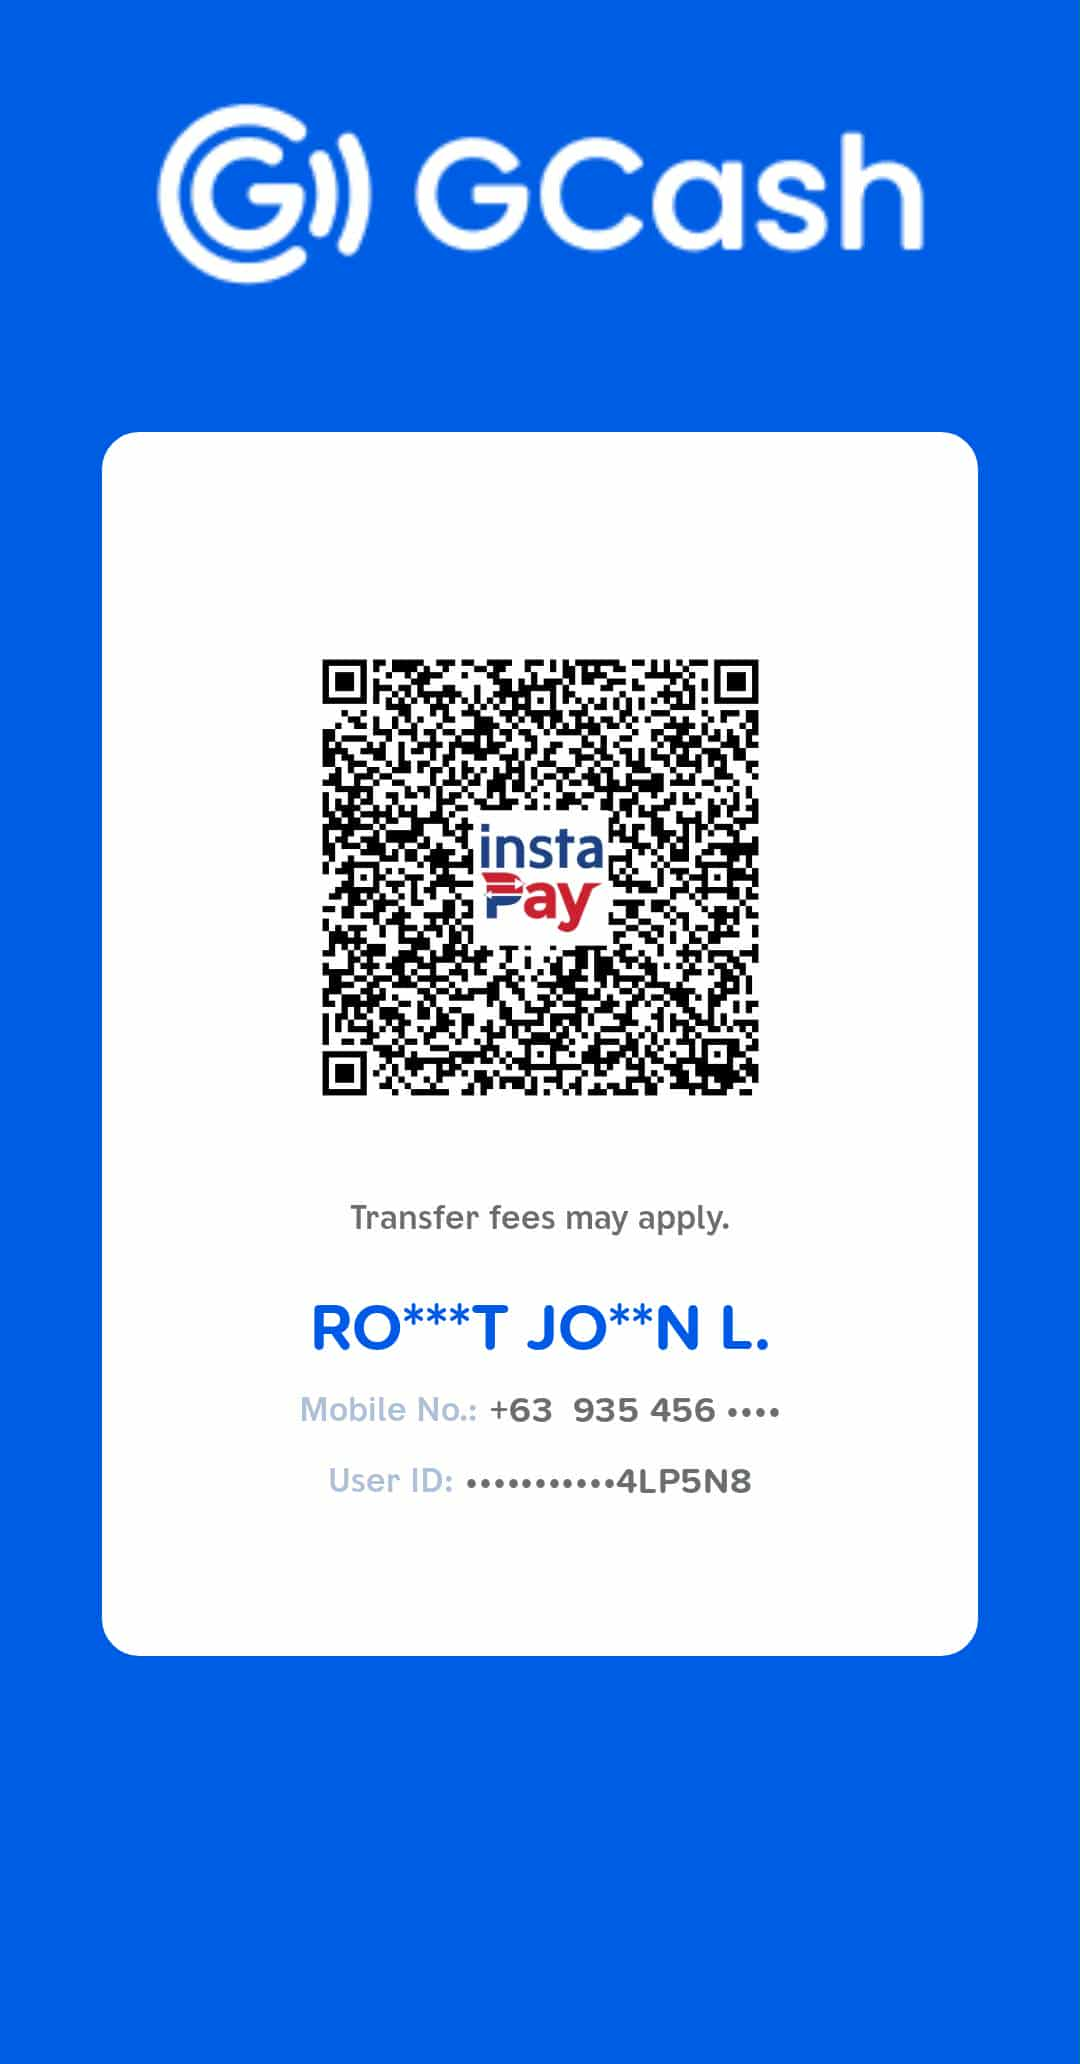
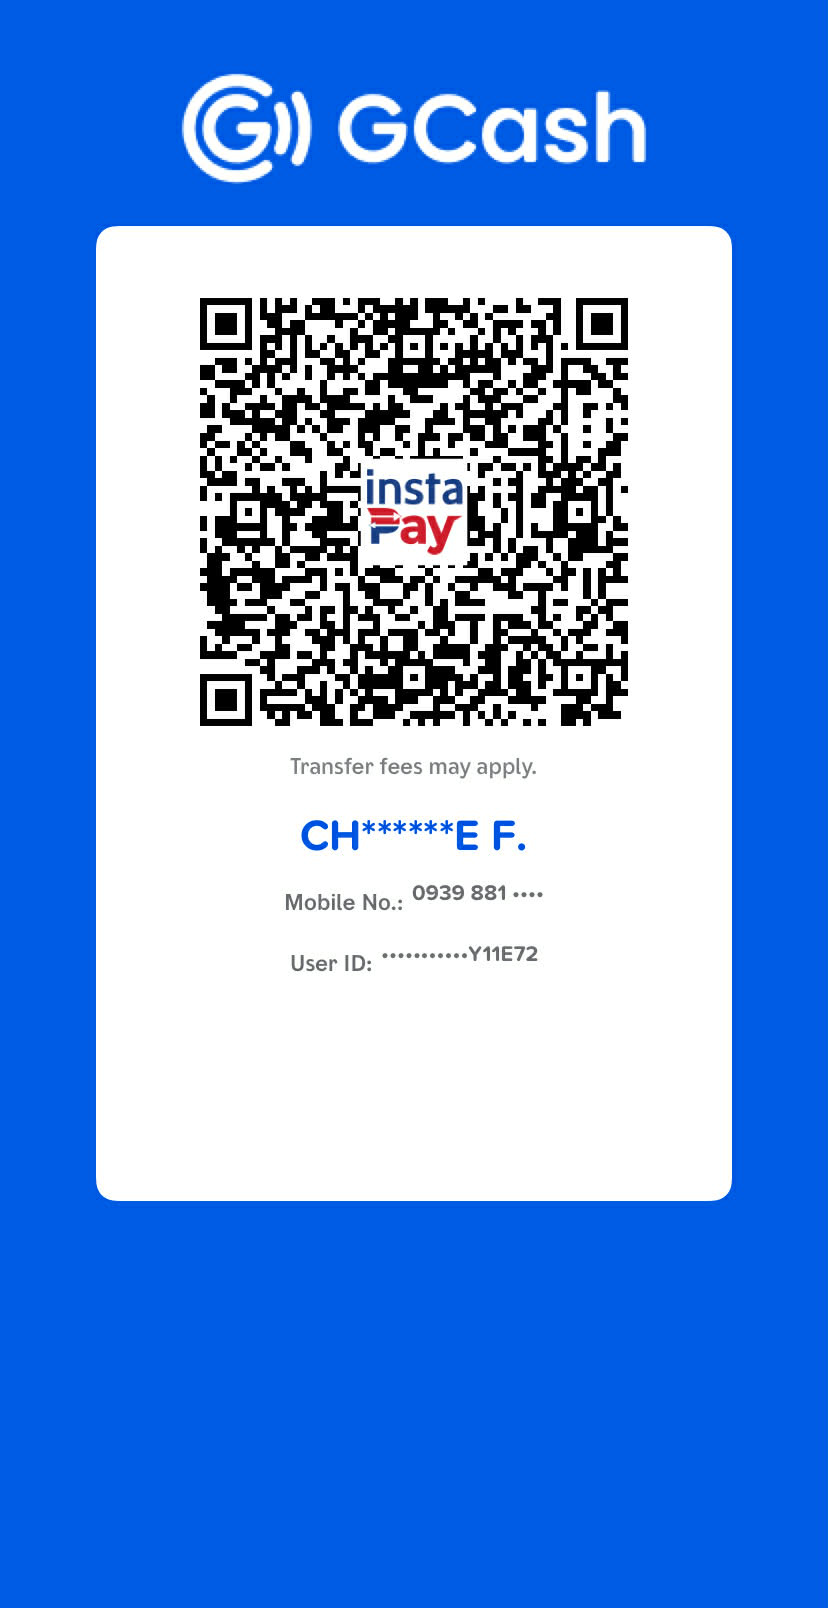
adjust

Changed region(s): [[0.0906, 0.0311, 0.9058, 0.8085], [0.9964, 0.0, 1.0, 1.0]]

diff --git a/src/components/Topbar/dialogs/DepositDialog.jsx b/src/components/Topbar/dialogs/DepositDialog.jsx
@@ -16,12 +16,13 @@ import {
   ListItem,
   ListItemText,
   Chip,
+  MenuItem,
 } from "@mui/material";
 import { Savings, CheckCircle, CloudUpload, HelpOutline } from "@mui/icons-material";
 import { getStorage, ref, uploadBytes, getDownloadURL } from "firebase/storage";
 import { collection, query, where, onSnapshot } from "firebase/firestore";
 import { getAuth } from "firebase/auth";
-import gcashImage from "../../../assets/bpii.jpg";
+import gcashImage from "../../../assets/gcash.jpg";
 import { app } from "../../../firebase";
 
 // ✅ Reusable confirmation dialog
@@ -91,11 +92,10 @@ const DepositDialog = ({ open, onClose, userData, db }) => {
   const [loading, setLoading] = useState(false);
   const [success, setSuccess] = useState(false);
   const [error, setError] = useState("");
-  const [showQR, setShowQR] = useState(false);
   const [showReceiptForm, setShowReceiptForm] = useState(false);
   const [depositLogs, setDepositLogs] = useState([]);
   const [confirmOpen, setConfirmOpen] = useState(false); // 🟢 Confirmation dialog state
-  const [qrDownloaded, setQrDownloaded] = useState(false); // Track if QR was downloaded
+  const [selectedPayment, setSelectedPayment] = useState("");
 
   // Charges removed
 
@@ -166,7 +166,6 @@ const DepositDialog = ({ open, onClose, userData, db }) => {
       setReference("");
       setReceipt(null);
       setPreview("");
-      setShowQR(false);
       setShowReceiptForm(false);
     } catch (err) {
       console.error(err);
@@ -181,7 +180,6 @@ const DepositDialog = ({ open, onClose, userData, db }) => {
     setSuccess(false);
     setReceipt(null);
     setPreview("");
-    setShowQR(false);
     setShowReceiptForm(false);
     onClose();
   };
@@ -199,48 +197,73 @@ const DepositDialog = ({ open, onClose, userData, db }) => {
 
   // Removed unused handleOpenGCash
 
-  const handleOpenPaymentApp = (appType) => {
-    const isMobile = /iPhone|iPad|iPod|Android/.test(navigator.userAgent);
+  // Removed unused handleOpenPaymentApp (no longer needed)
+
+  const handleOpenGCash = () => {
+    const userAgent = navigator.userAgent;
+    const isIOS = /iPhone|iPad|iPod/.test(userAgent);
+    const isAndroid = /Android/.test(userAgent);
     
-    const appLinks = {
-      gcash: {
-        ios: "gcash://",
-        android: "intent://com.globe.gcash.android#Intent;scheme=gcash;action=android.intent.action.VIEW;end",
-        web: "https://m.gcash.com"
-      },
-      bdo: {
-        ios: "bdo://",
-        android: "intent://com.bdo.mobile://Intent;scheme=bdo;action=android.intent.action.VIEW;end",
-        web: "https://www.bdo.com.ph/personal"
-      },
-      bpi: {
-        ios: "bpi://",
-        android: "intent://com.bpi.bpimobile://Intent;scheme=bpi;action=android.intent.action.VIEW;end",
-        web: "https://www.bpi.com.ph/personal"
-      },
-      maya: {
-        ios: "maya://",
-        android: "intent://com.maya.app://Intent;scheme=maya;action=android.intent.action.VIEW;end",
-        web: "https://www.mayaapp.com"
-      }
-    };
-
-    const links = appLinks[appType];
-    if (!links) return;
-
-    if (!isMobile) {
-      window.open(links.web, "_blank");
+    if (!isIOS && !isAndroid) {
+      // Desktop
+      window.open("https://m.gcash.com", "_blank");
       return;
     }
 
-    if (/iPhone|iPad|iPod/.test(navigator.userAgent)) {
-      window.location.href = links.ios;
-    } else if (/Android/.test(navigator.userAgent)) {
-      window.location.href = links.android;
+    // Use iframe method for more reliable deep linking
+    const openAppWithFallback = (scheme, fallbackUrl) => {
+      try {
+        const iframe = document.createElement('iframe');
+        iframe.style.display = 'none';
+        iframe.src = scheme;
+        document.body.appendChild(iframe);
+        
+        setTimeout(() => {
+          try {
+            document.body.removeChild(iframe);
+          } catch (e) {
+            // Iframe already removed
+          }
+          if (fallbackUrl) {
+            window.open(fallbackUrl, '_blank');
+          }
+        }, 2500);
+      } catch (e) {
+        console.error('Failed to open app:', e);
+        if (fallbackUrl) {
+          window.open(fallbackUrl, '_blank');
+        }
+      }
+    };
+
+    if (isIOS) {
+      // iOS: Try GCash app scheme with App Store fallback
+      openAppWithFallback(
+        'gcash://',
+        'https://apps.apple.com/ph/app/gcash/id562847418'
+      );
+    } else if (isAndroid) {
+      // Android: Try multiple intent formats
+      try {
+        // Try market:// scheme first (direct to Play Store if app installed)
+        const intentUrl = `intent://home#Intent;scheme=gcash;package=com.globe.gcash.android;action=android.intent.action.VIEW;LaunchFlags=0x10200000;end`;
+        window.location.href = intentUrl;
+        
+        // If that doesn't work, fallback to direct package open
+        setTimeout(() => {
+          try {
+            window.location.href = `intent://com.globe.gcash.android#Intent;scheme=package;action=android.intent.action.VIEW;end`;
+          } catch (e) {
+            // Final fallback to Play Store
+            window.open('https://play.google.com/store/apps/details?id=com.globe.gcash.android', '_blank');
+          }
+        }, 1000);
+      } catch (e) {
+        // Fallback to Play Store
+        window.open('https://play.google.com/store/apps/details?id=com.globe.gcash.android', '_blank');
+      }
     }
   };
-
-  // handleDownloadQR removed (no longer used)
 
   return (
     <>
@@ -317,169 +340,73 @@ const DepositDialog = ({ open, onClose, userData, db }) => {
                 </Alert>
               )}
 
-              {!showQR && (
+              {!showReceiptForm && (
                 <>
-                  <Button
-                    variant="contained"
+                  <TextField
+                    select
                     fullWidth
-                    sx={{
-                      mb: 2,
-                      bgcolor: "#81C784",
-                      "&:hover": { bgcolor: "#66BB6A" },
-                    }}
-                    onClick={() => {
-                      // Download the QR image directly
-                      const link = document.createElement("a");
-                      link.href = gcashImage;
-                      link.download = `GCash_QR_${Date.now()}.jpg`;
-                      document.body.appendChild(link);
-                      link.click();
-                      document.body.removeChild(link);
-                      setQrDownloaded(true);
-                    }}
+                    label="Select Payment Method"
+                    value={selectedPayment}
+                    onChange={e => setSelectedPayment(e.target.value)}
+                    sx={{ mb: 2, background: 'rgba(255,255,255,0.03)' }}
                   >
-                    Download QR Code
-                  </Button>
-                  <Button
-                    variant="outlined"
-                    fullWidth
-                    disabled={!qrDownloaded}
-                    sx={{
-                      borderColor: "#fff",
-                      color: "#fff",
-                      mb: 2,
-                      opacity: 1,
-                      "&.Mui-disabled": {
-                        borderColor: "#fff",
-                        color: "#fff",
-                        opacity: 1
-                      }
-                    }}
-                    onClick={() => setShowReceiptForm(true)}
-                  >
-                    Proceed to Upload Receipt
-                  </Button>
-                  <Divider sx={{ my: 2, borderColor: "rgba(255,255,255,0.2)" }} />
-                  <Typography variant="body2" sx={{ mb: 1, color: "rgba(255,255,255,0.7)", fontWeight: 500 }}>
-                    Or open payment app:
-                  </Typography>
-                  <Box sx={{ display: "grid", gridTemplateColumns: "1fr 1fr", gap: 1, mb: 2 }}>
-                    <Button
-                      variant="contained"
-                      size="small"
-                      disabled={!qrDownloaded}
-                      sx={{
-                        bgcolor: "#0066CC",
-                        color: "#fff",
-                        fontWeight: 600,
-                        fontSize: "0.85rem",
-                        opacity: 1,
-                        "&.Mui-disabled": {
-                          bgcolor: "#0066CC",
+                    <MenuItem value="gcash">GCash</MenuItem>
+                    {/* Add more payment methods here as needed */}
+                  </TextField>
+                  {selectedPayment === "gcash" && (
+                    <Box sx={{ textAlign: "center", my: 2 }}>
+                      <img
+                        src={gcashImage}
+                        alt="GCash QR"
+                        style={{ width: "100%", maxWidth: 260, borderRadius: 8, marginBottom: 8 }}
+                      />
+                      <Typography variant="body2" sx={{ color: "#FFD54F", mb: 2 }}>
+                        Long press the QR code above and tap "Add to Photos" or "Save Image" to save it to your phone.
+                      </Typography>
+                      <Button
+                        variant="outlined"
+                        fullWidth
+                        sx={{
+                          borderColor: "#fff",
                           color: "#fff",
-                          opacity: 1
-                        },
-                        "&:hover": { bgcolor: "#0052A3" }
-                      }}
-                      onClick={() => handleOpenPaymentApp("gcash")}
-                    >
-                      GCash
-                    </Button>
-                    <Button
-                      variant="contained"
-                      size="small"
-                      disabled={!qrDownloaded}
-                      sx={{
-                        bgcolor: "#003DA5",
-                        color: "#fff",
-                        fontWeight: 600,
-                        fontSize: "0.85rem",
-                        opacity: 1,
-                        "&.Mui-disabled": {
-                          bgcolor: "#003DA5",
-                          color: "#fff",
-                          opacity: 1
-                        },
-                        "&:hover": { bgcolor: "#002D7F" }
-                      }}
-                      onClick={() => handleOpenPaymentApp("bdo")}
-                    >
-                      BDO
-                    </Button>
-                    <Button
-                      variant="contained"
-                      size="small"
-                      disabled={!qrDownloaded}
-                      sx={{
-                        bgcolor: "#E60000",
-                        color: "#fff",
-                        fontWeight: 600,
-                        fontSize: "0.85rem",
-                        opacity: 1,
-                        "&.Mui-disabled": {
-                          bgcolor: "#E60000",
-                          color: "#fff",
-                          opacity: 1
-                        },
-                        "&:hover": { bgcolor: "#CC0000" }
-                      }}
-                      onClick={() => handleOpenPaymentApp("bpi")}
-                    >
-                      BPI
-                    </Button>
-                    <Button
-                      variant="contained"
-                      size="small"
-                      disabled={!qrDownloaded}
-                      sx={{
-                        bgcolor: "#8B3DFF",
-                        color: "#fff",
-                        fontWeight: 600,
-                        fontSize: "0.85rem",
-                        opacity: 1,
-                        "&.Mui-disabled": {
-                          bgcolor: "#8B3DFF",
-                          color: "#fff",
-                          opacity: 1
-                        },
-                        "&:hover": { bgcolor: "#6B2FCC" }
-                      }}
-                      onClick={() => handleOpenPaymentApp("maya")}
-                    >
-                      Maya
-                    </Button>
-                  </Box>
-                  {/* QR download alert removed */}
+                          mb: 1,
+                          opacity: 1,
+                          "&.Mui-disabled": {
+                            borderColor: "#fff",
+                            color: "#fff",
+                            opacity: 1
+                          }
+                        }}
+                        onClick={() => {
+                          handleOpenGCash();
+                          setShowReceiptForm(true);
+                        }}
+                        disabled={!selectedPayment}
+                      >
+                        I've Saved the QR Code
+                      </Button>
+                      <Button
+                        variant="contained"
+                        fullWidth
+                        sx={{
+                          bgcolor: "rgba(129, 199, 132, 0.3)",
+                          color: "#81C784",
+                          border: "1px solid #81C784",
+                          fontWeight: 600,
+                          "&:hover": { 
+                            bgcolor: "rgba(129, 199, 132, 0.5)",
+                          }
+                        }}
+                        onClick={handleOpenGCash}
+                      >
+                        Open GCash App
+                      </Button>
+                    </Box>
+                  )}
                 </>
               )}
 
-              {showQR && !showReceiptForm && (
-                <Box sx={{ textAlign: "center", mb: 2 }}>
-                  <Button
-                    variant="contained"
-                    fullWidth
-                    sx={{
-                      bgcolor: "#81C784",
-                      "&:hover": { bgcolor: "#66BB6A" },
-                    }}
-                    onClick={() => setShowQR(false)}
-                  >
-                    Download QR Code
-                  </Button>
-                  <Button
-                    variant="outlined"
-                    fullWidth
-                    sx={{
-                      borderColor: "#fff",
-                      color: "#fff",
-                      mt: 2
-                    }}
-                    onClick={() => setShowReceiptForm(true)}
-                  >
-                    Proceed to Upload Receipt
-                  </Button>
-                </Box>
-              )}
+              {/* Removed showQR block - no longer needed */}
 
               {showReceiptForm && (
                 <>

diff --git a/src/utils/overrideNotifications.js b/src/utils/overrideNotifications.js
@@ -22,3 +22,5 @@ export async function sendOverrideTransferAvailableNotification(userId) {
     read: false,
   });
 }
+
+ 
